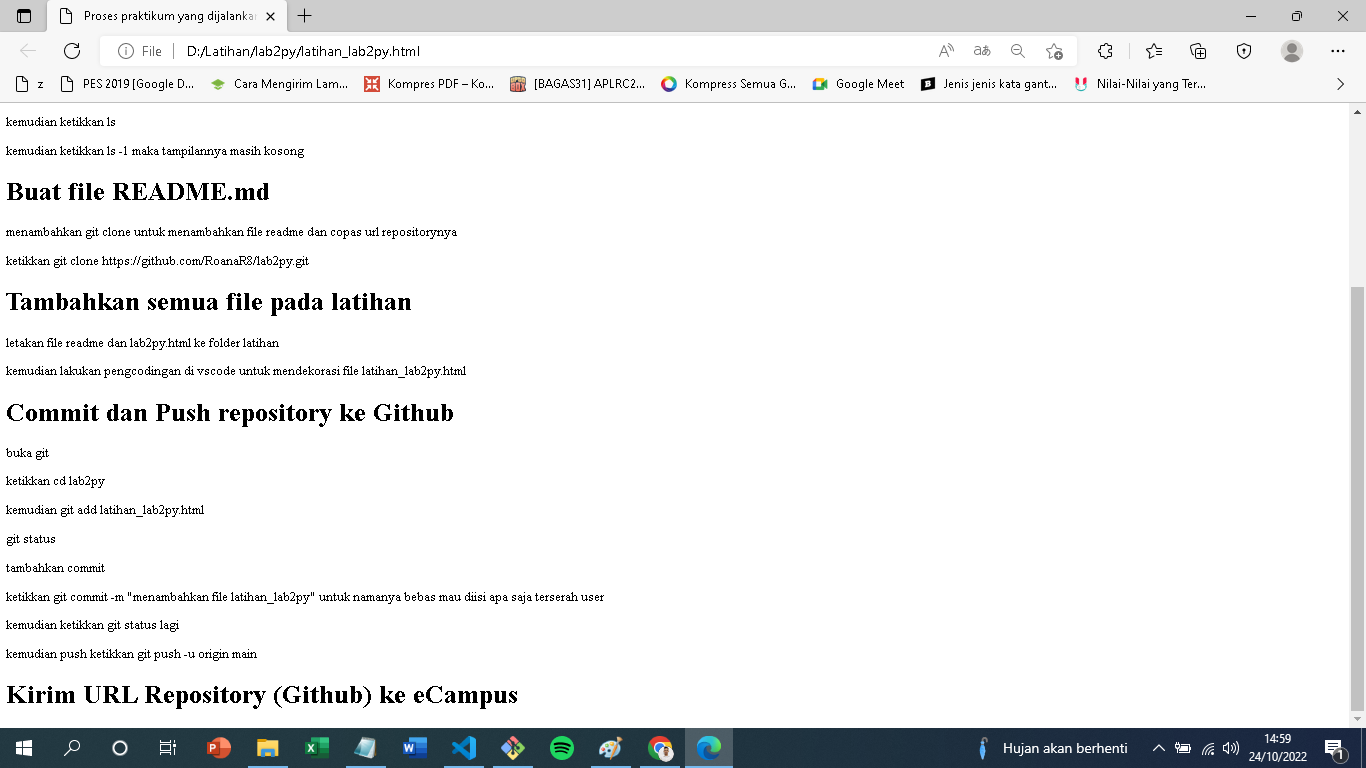
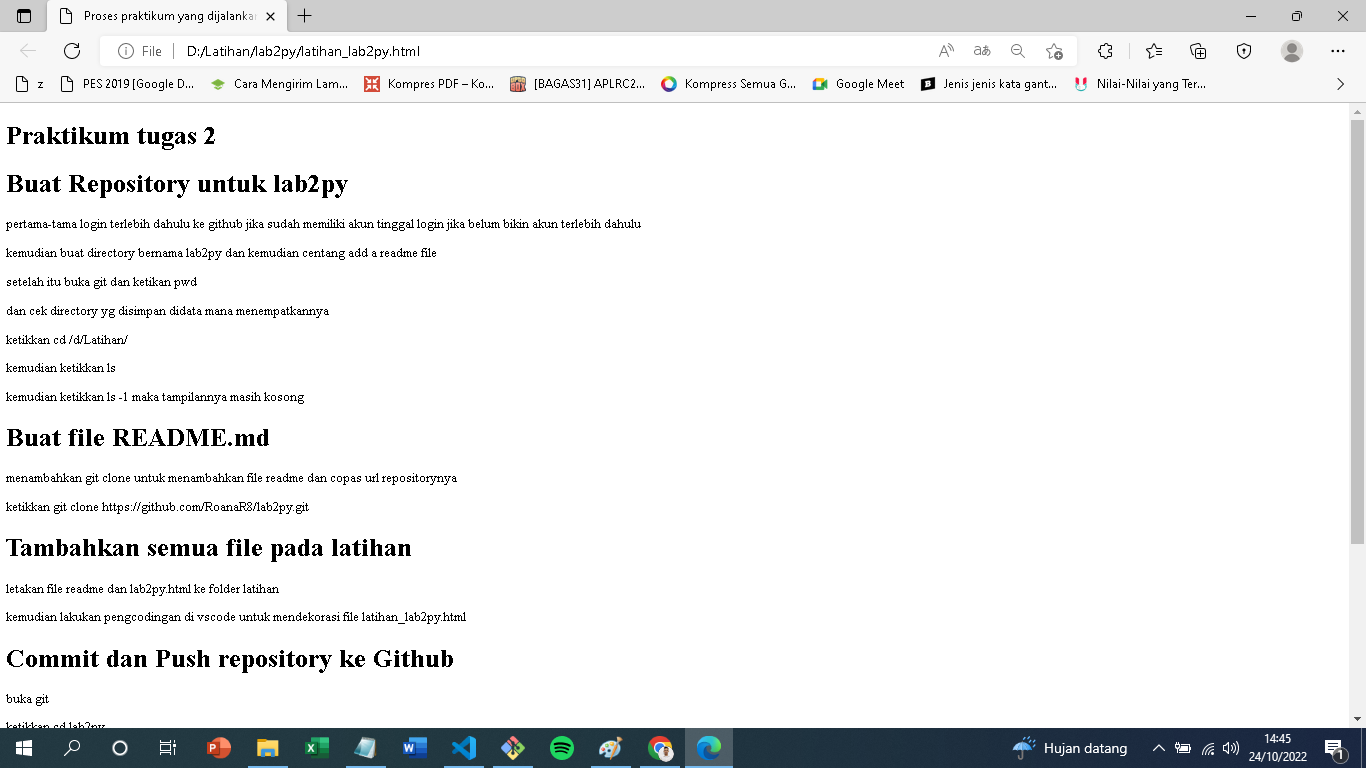
menambahkan screenshot

diff --git a/latihan_lab2py.html b/latihan_lab2py.html
@@ -21,7 +21,16 @@
     <p>ketikkan git clone https://github.com/RoanaR8/lab2py.git</p>  
     <h1>Tambahkan semua file pada latihan</h1>
     <p>letakan file readme dan lab2py.html ke folder latihan</p>
+    <p>kemudian lakukan pengcodingan di vscode untuk mendekorasi file latihan_lab2py.html</p>
     <h1>Commit dan Push repository ke Github</h1>
+    <p>buka git</p>
+    <p>ketikkan cd lab2py</p>
+    <p>kemudian git add latihan_lab2py.html</p>
+    <p>git status </p>
+    <p>tambahkan commit</p>
+    <p>ketikkan git commit -m "menambahkan file latihan_lab2py" untuk namanya bebas mau diisi apa saja terserah user</p>
+    <p>kemudian ketikkan git status lagi</p>
+    <p>kemudian push ketikkan git push -u origin main </p>
     <h1>Kirim URL Repository (Github) ke eCampus</h1>
 </body>
 </html>

diff --git a/README.md b/README.md
@@ -3,7 +3,6 @@
 
 ### Membuat Repository
 <h1>MATA KULIAH PEMROGRAMAN </h1>
-<h1>ini adalah tampilannya</h1> 
-![Gambar 1](screenshot/ss1.png)
-![Gambar 2](screenshot/ss2.png)
+<h1>ini adalah tampilannya</h1>
 ![Gambar 3](screenshot/ss3.png)
+![Gambar 4](screenshot/ss4.png)
